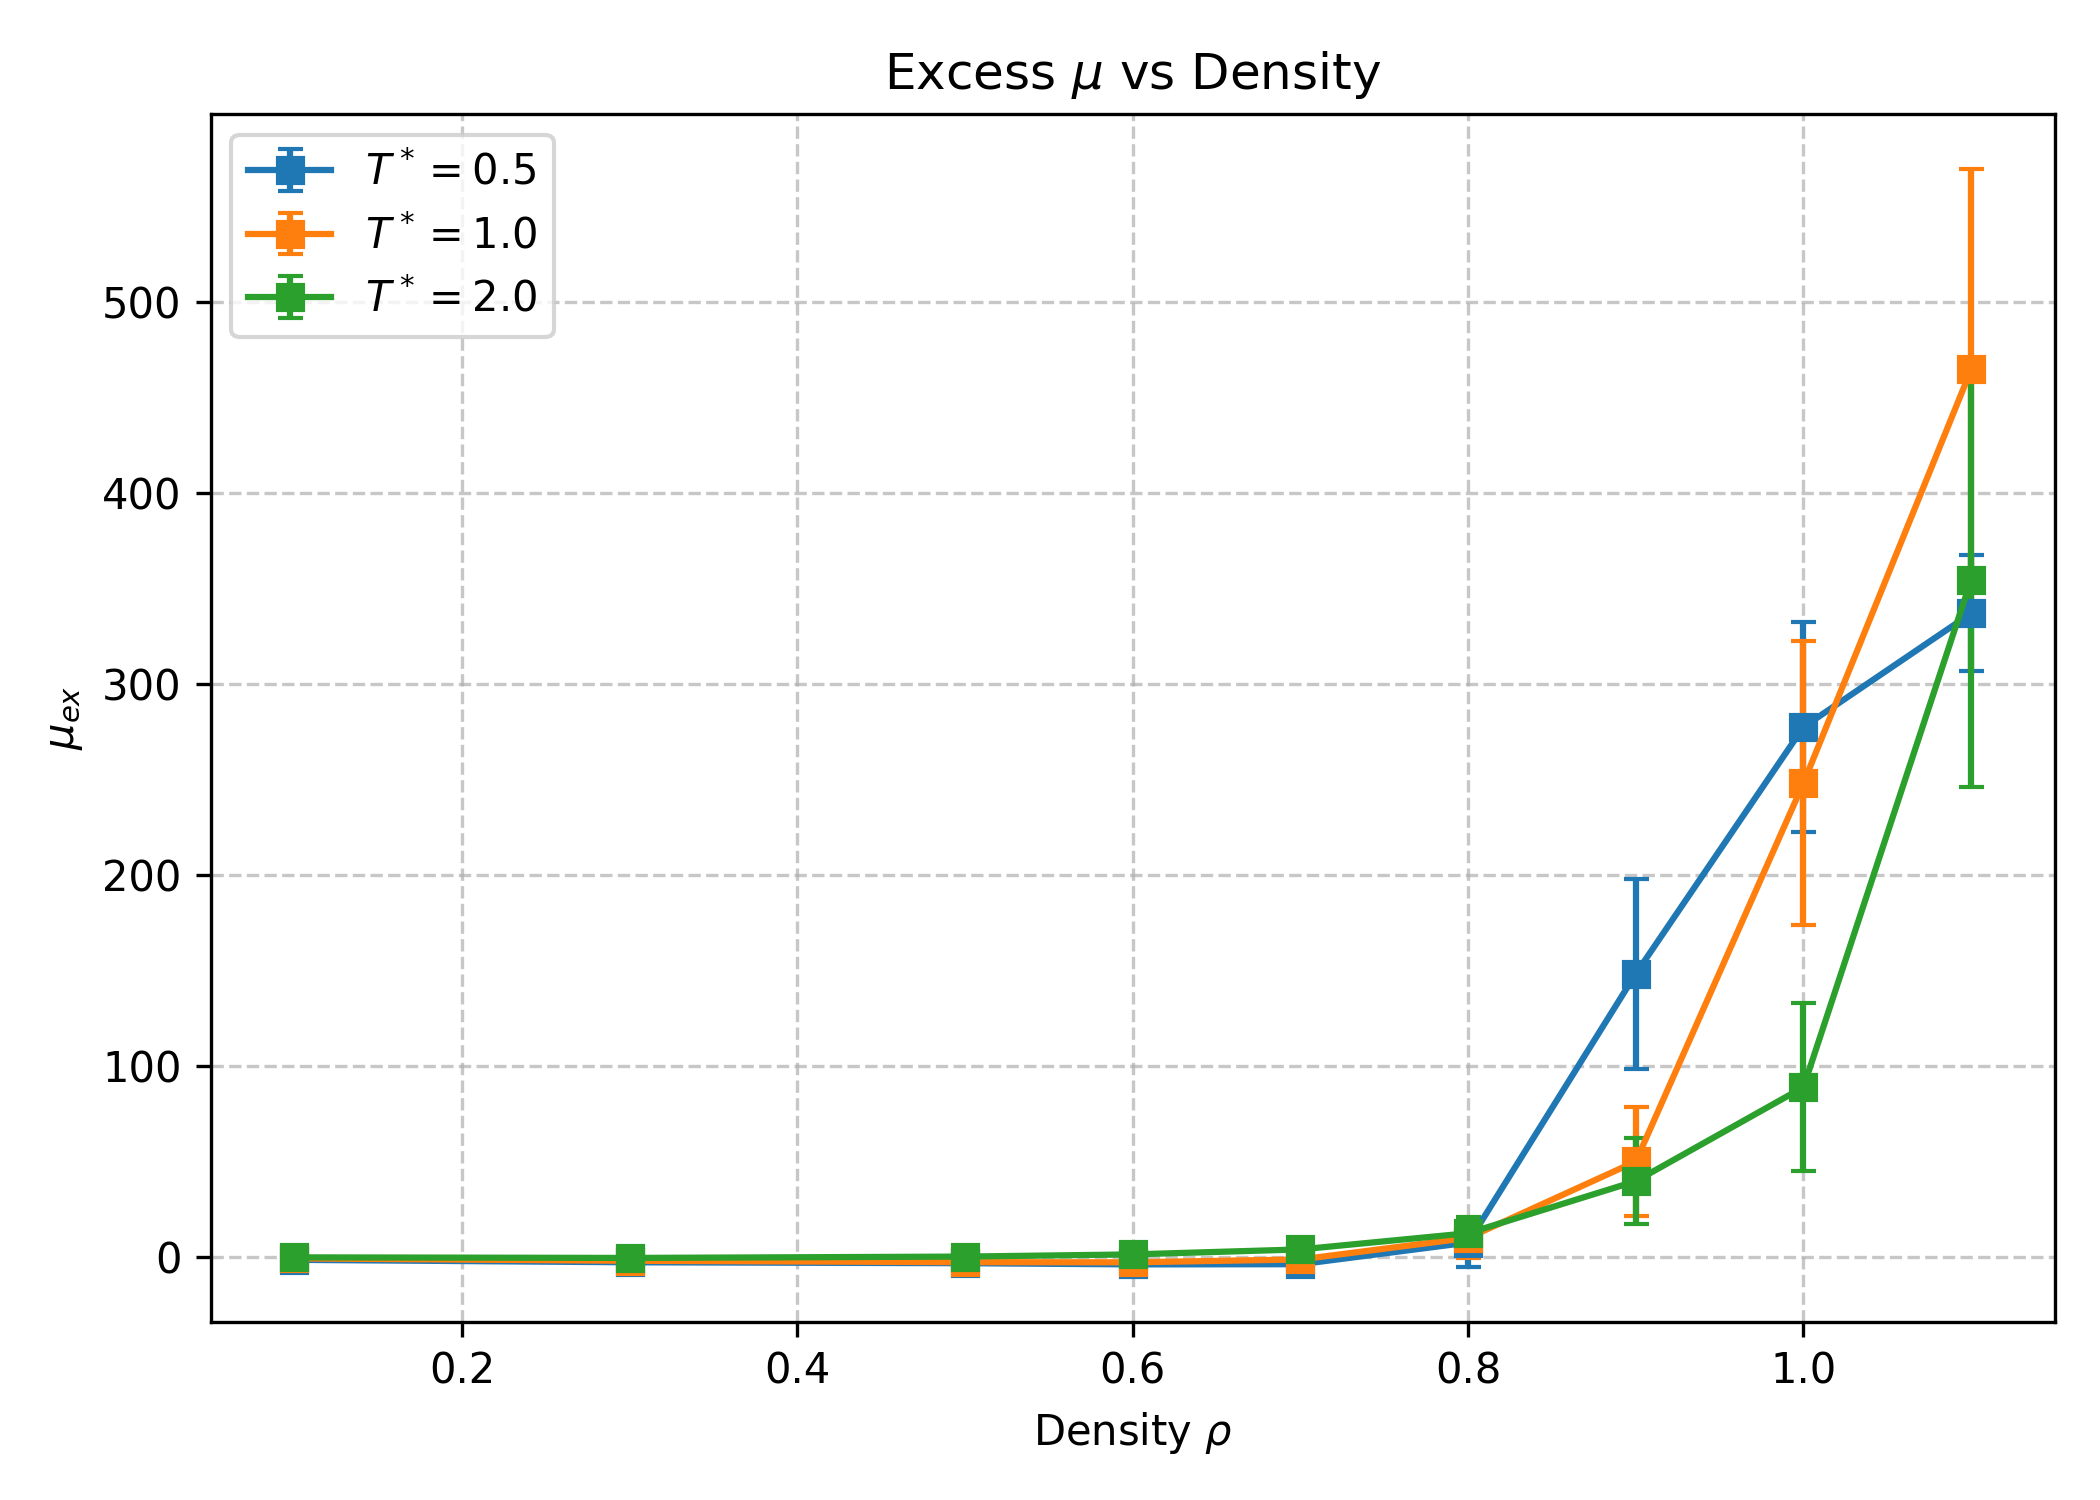
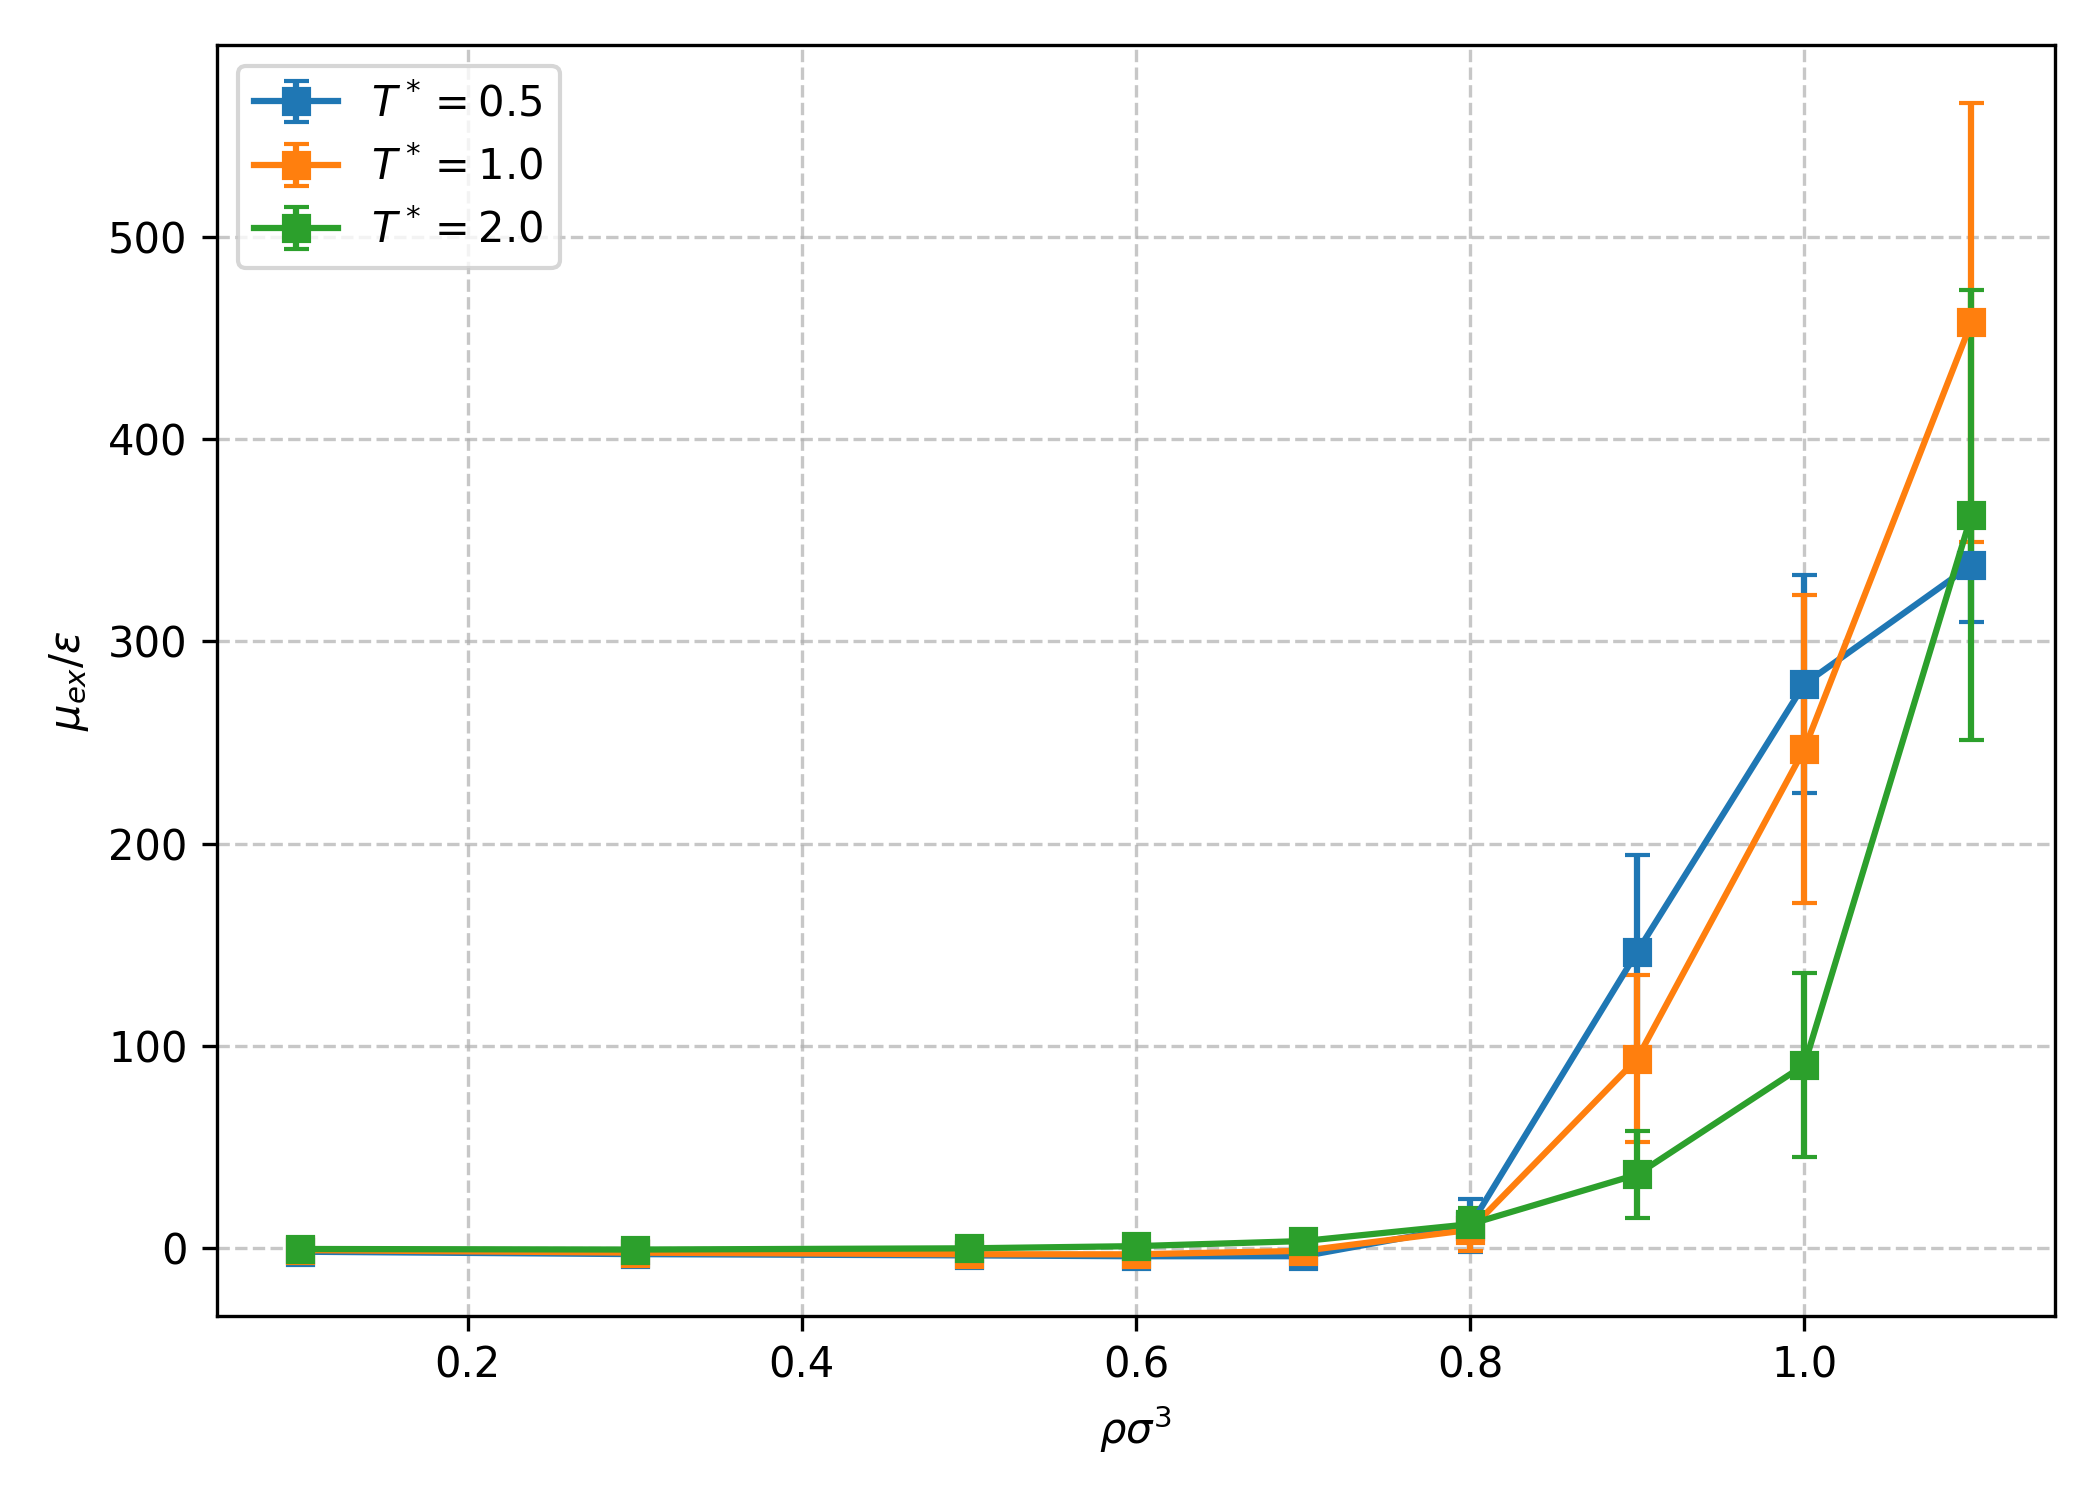
update, think its correct

diff --git a/exercise_8/lj-nvt-empty.c b/exercise_8/lj-nvt-empty.c
@@ -20,7 +20,7 @@
 const int    mc_steps      = 5000;
 const int    output_steps  = 100; 
 // const double density       = 0.5; 
-const double delta         = 0.1; 
+double delta         = 0.1; 
 const double r_cut         = 2.5; 
 // const double beta          = 1;
 const char*  init_filename = "fcc.xyz";
@@ -356,10 +356,12 @@ int main(int argc, char* argv[]){
     double betas[] = {0.5, 1.0, 2.0};
     double densitys[] = {0.1,0.3,0.5,0.6,0.7,0.8,0.9,1.0,1.1};
 
-    
+
     // Calculate how many elements are in the array
     int big = sizeof(betas) / sizeof(betas[0]);
     int big2 = sizeof(densitys) / sizeof(densitys[0]);
+
+    int converged_move = 0;
 
     for (int i = 0; i < big; i++) {
         for(int j = 0; j < big2; j++){
@@ -422,14 +424,30 @@ int main(int argc, char* argv[]){
 
                 measurement_t ms = measure();
 
-                fprintf(fp, "%d\t%f\t%f\n", step, ms.average_pressure, ms.mu_excess);
+                fprintf(fp, "%d\t%f\t%f\t%f\n", step, ms.average_pressure, ms.mu_excess, delta);
 
                 if(step % output_steps == 0){
                     printf("Step %d. Move acceptance: %f.\n",
                         step, (double)accepted / (n_particles * output_steps)
                     );
+                    printf("delta is %f \n", delta);
+
                     accepted = 0;
+                    
                     write_data(step);
+
+                //     if(converged_move<4){
+                //         if ((double)accepted / (n_particles * output_steps)>0.55){
+                //             delta *= 1.1;
+                //         }
+                //         else if ((double)accepted / (n_particles * output_steps)<0.45){
+                //             delta *= 0.9;
+                //         }
+                //         else{
+                //             converged_move ++;
+
+                //         }
+                //     }
                 }
             }
 

diff --git a/exercise_8/plotting.py b/exercise_8/plotting.py
@@ -255,7 +255,7 @@ for T in sorted_temps:
 # Formatting Pressure Plot
 ax1.set_xlabel(r"$\rho \sigma^3$")
 ax1.set_ylabel(r"$\beta P \sigma^3$")
-ax1.set_title("Pressure vs Density")
+# ax1.set_title("Pressure vs Density")
 ax1.grid(True, linestyle='--', alpha=0.7)
 ax1.legend()
 
@@ -284,9 +284,9 @@ for T in sorted_temps:
 
 # Formatting Pressure Plot
 # Formatting Mu Plot
-ax1.set_xlabel(r"Density $\rho$")
-ax1.set_ylabel(r"$\mu_{ex}$")
-ax1.set_title("Excess $\mu$ vs Density")
+ax1.set_xlabel(r"$\rho \sigma^3$")
+ax1.set_ylabel(r"${\mu_{ex}}/{ \epsilon} $")
+# ax1.set_title("Excess $\mu$ vs Density")
 ax1.grid(True, linestyle='--', alpha=0.7)
 ax1.legend()
 
